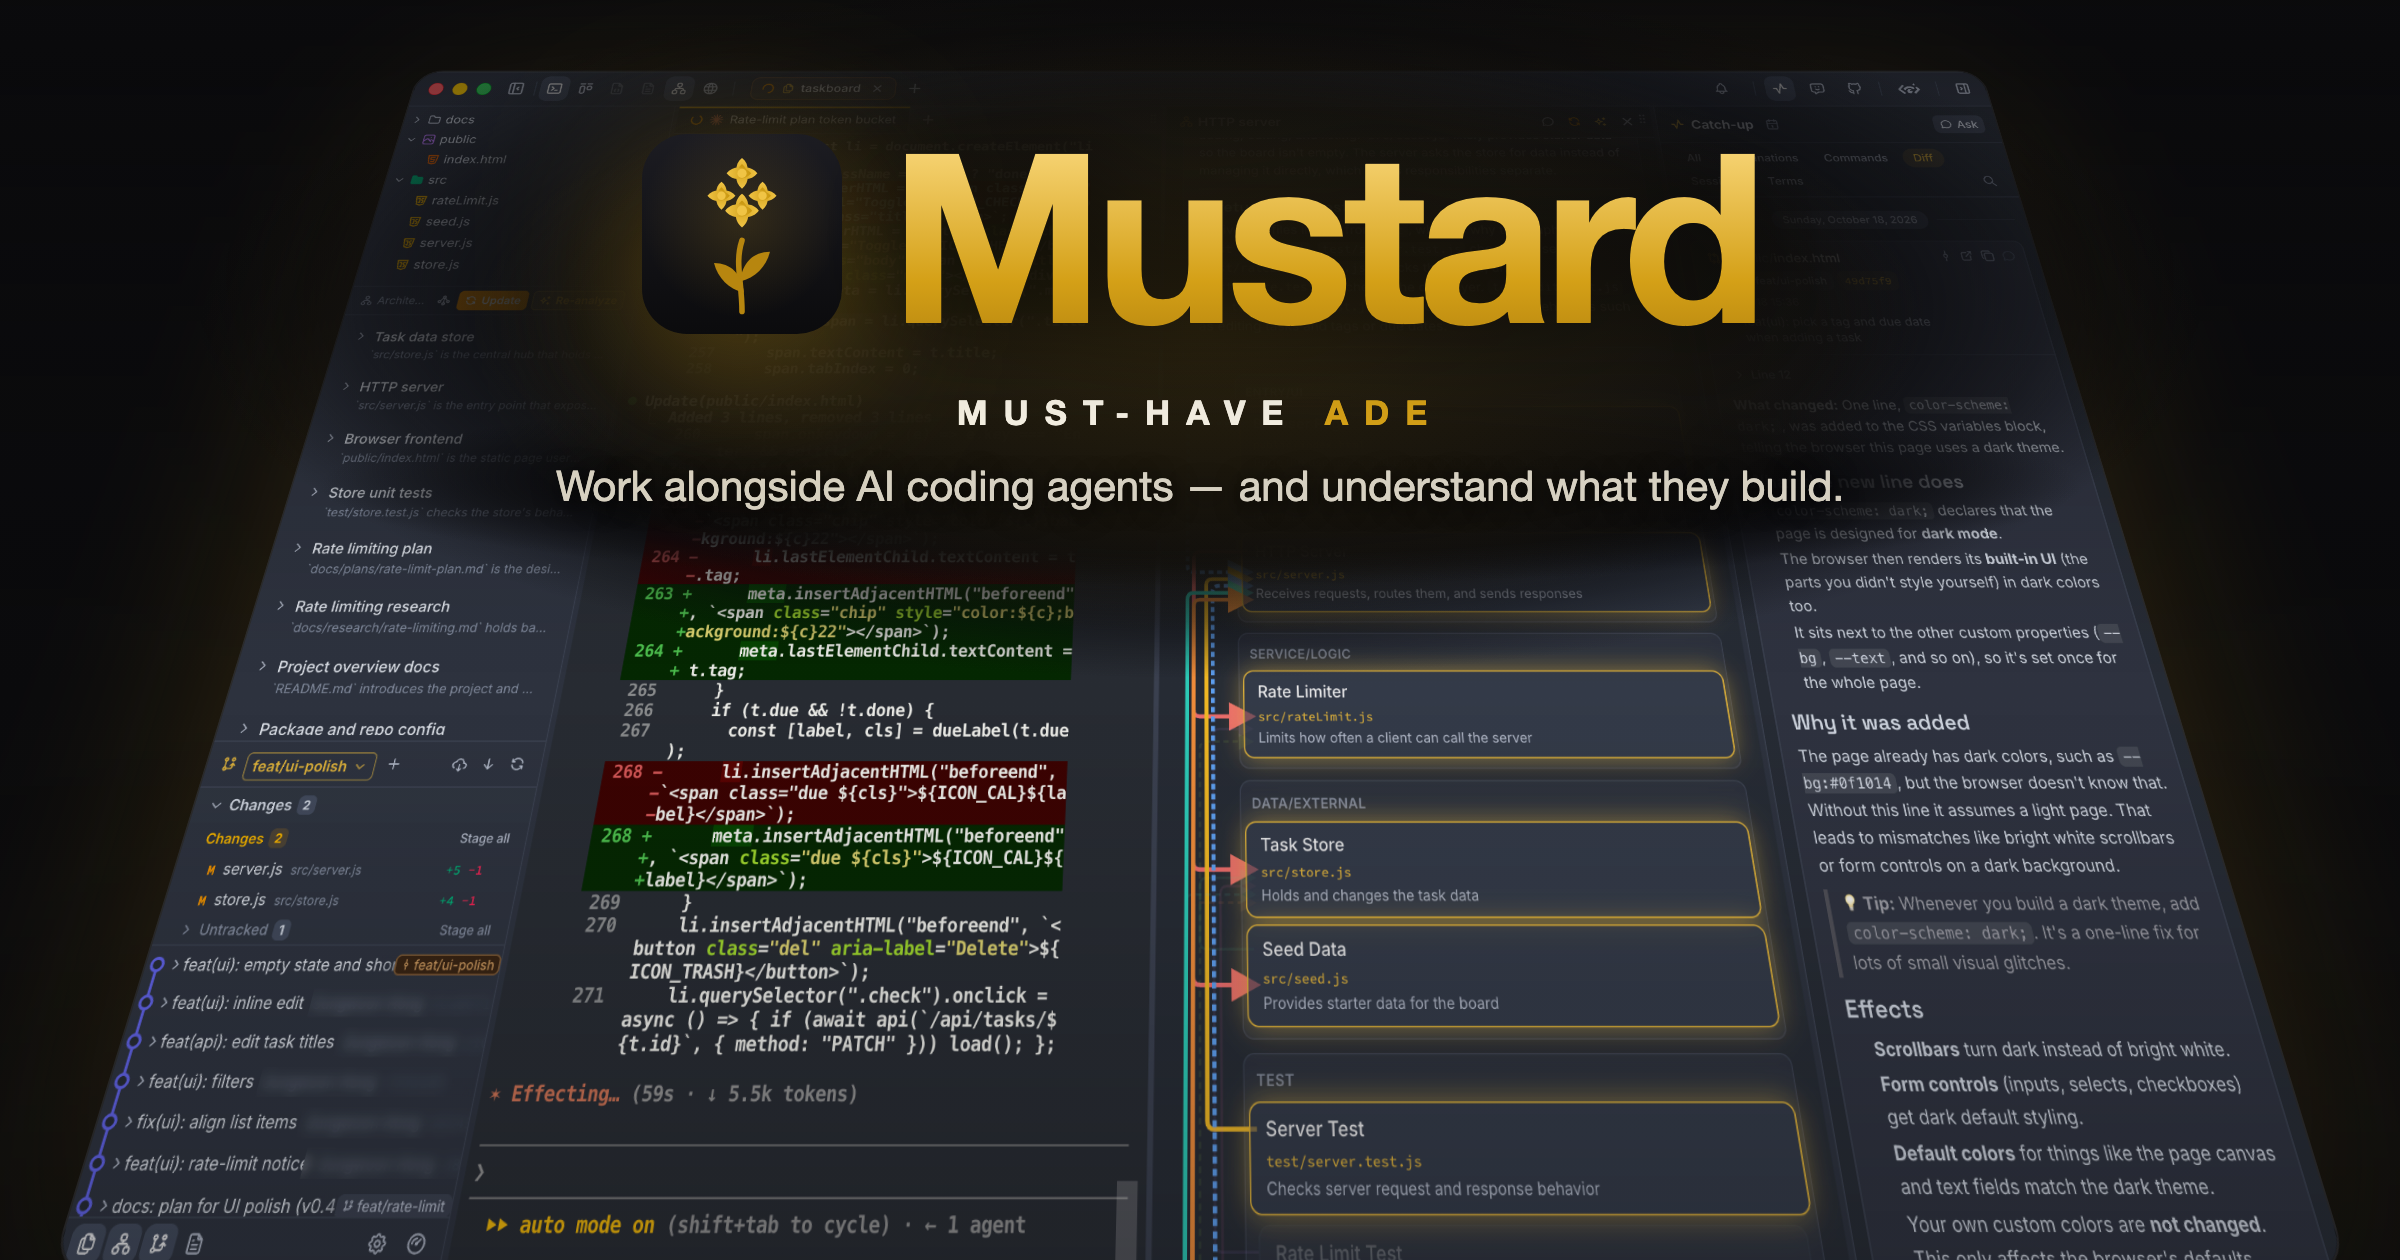
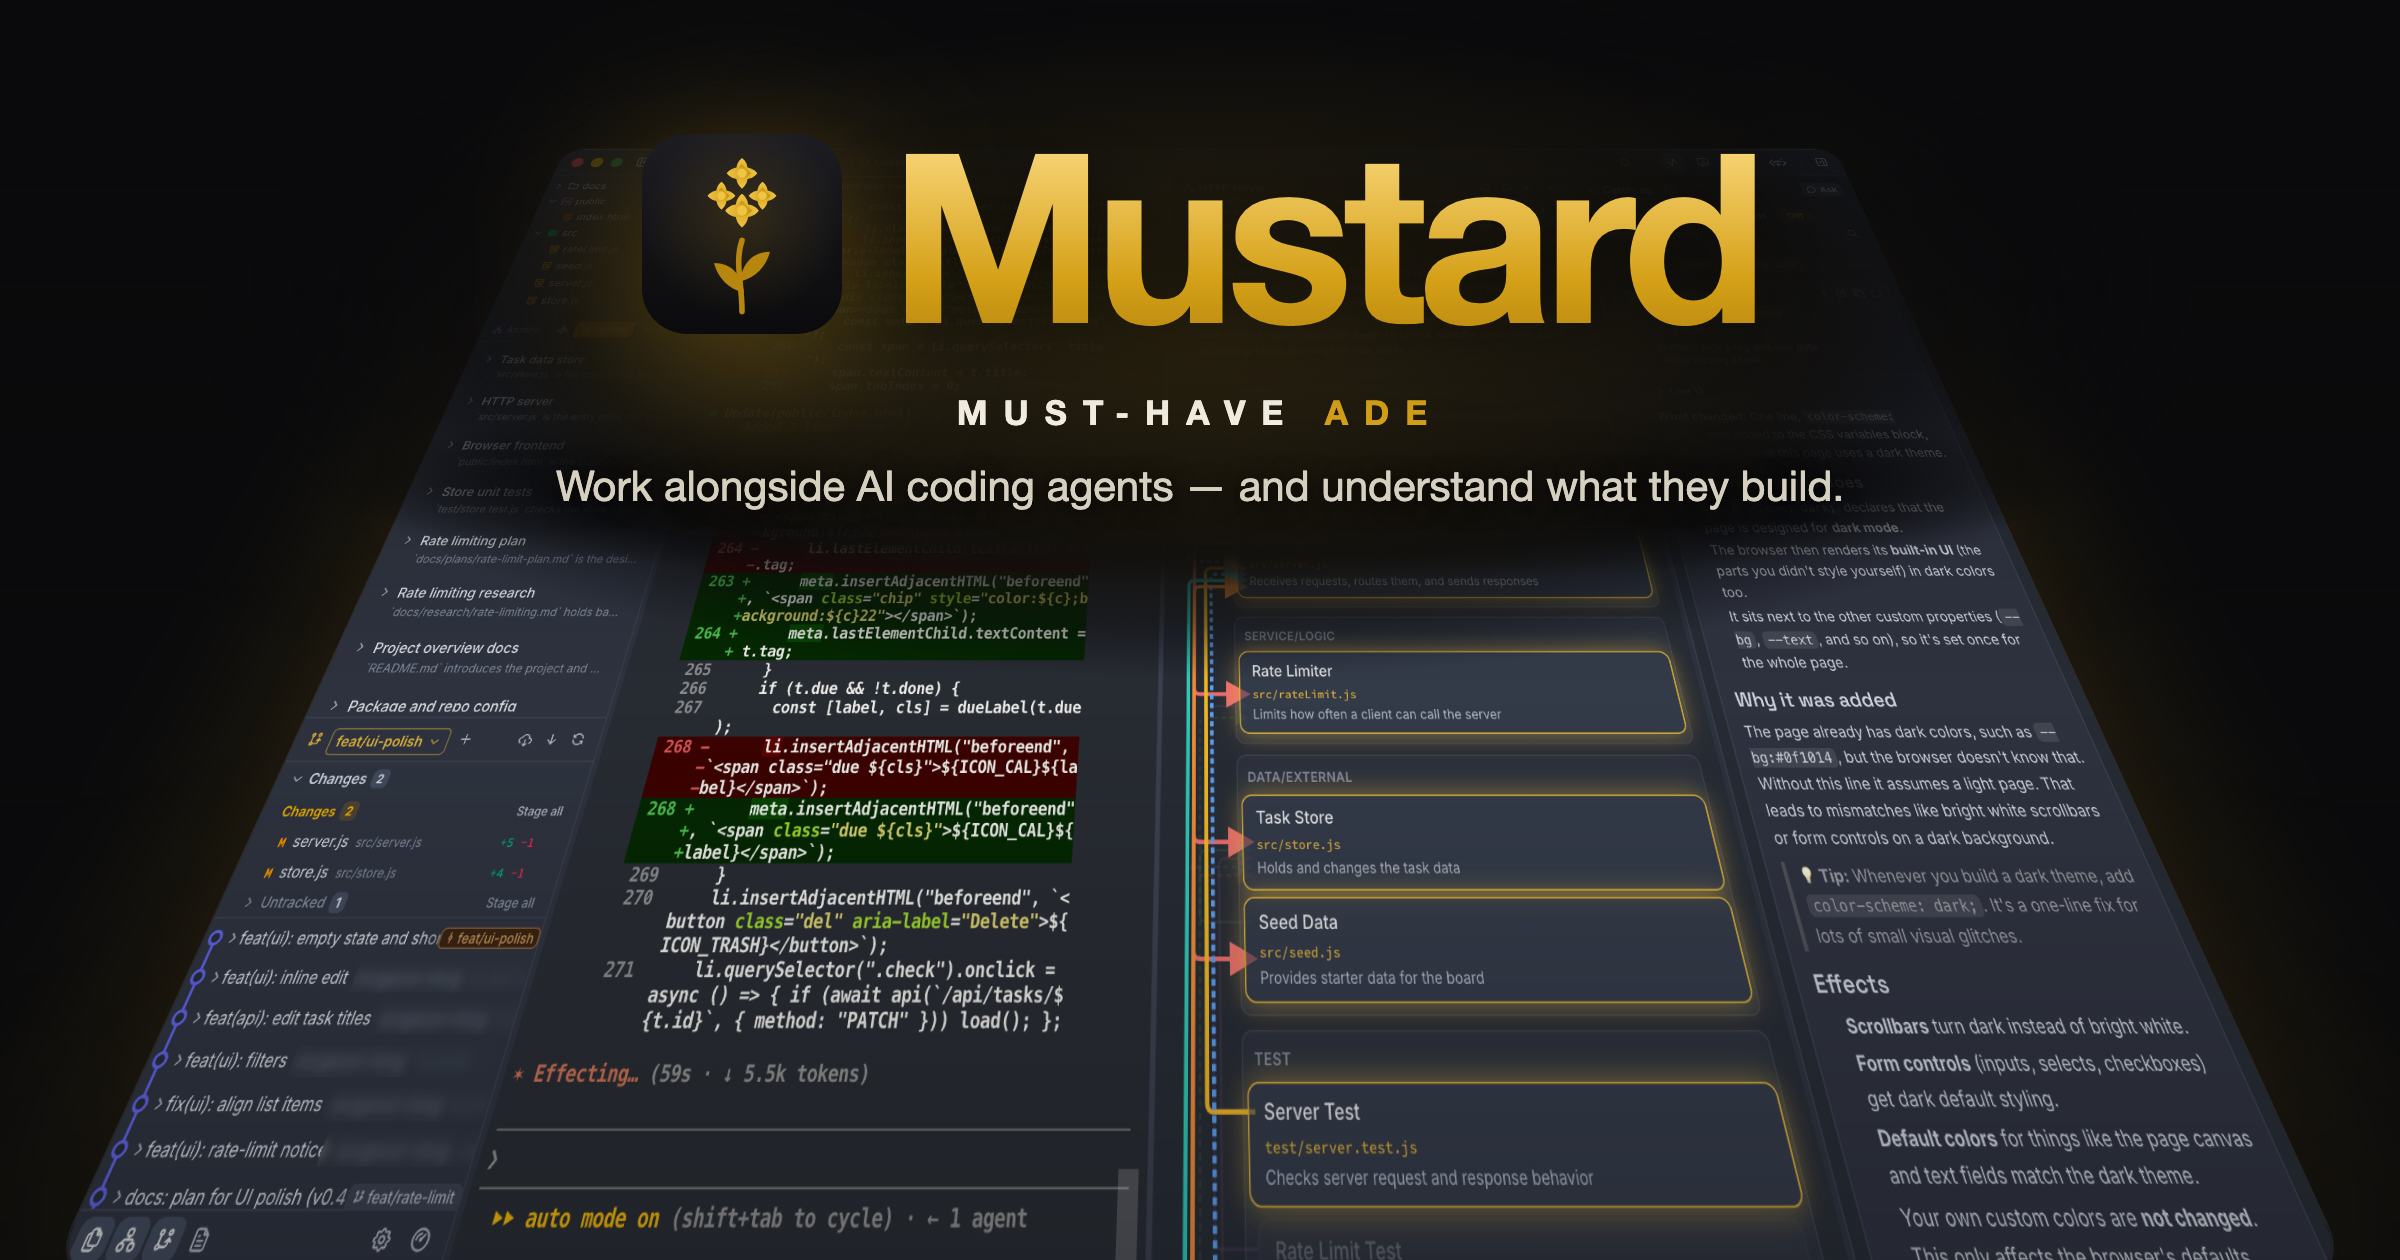
docs: 대표 이미지 — 크롤 기울기 강화 (#1118)

diff --git a/scripts/brand/mustard-hero.html b/scripts/brand/mustard-hero.html
@@ -3,8 +3,8 @@
 *{box-sizing:border-box;margin:0;padding:0}
 html,body{width:1200px;height:630px;overflow:hidden}
 body{font-family:-apple-system,"SF Pro Display","Helvetica Neue",Inter,sans-serif;color:#f4efe2;position:relative;background:#0a0a0c}
-.stage{position:absolute;inset:0;perspective:900px;perspective-origin:50% 0%;overflow:hidden}
-.shot{position:absolute;left:50%;bottom:-6px;width:1150px;height:722px;margin-left:-575px;border-radius:18px;overflow:hidden;transform:rotateX(36deg);transform-origin:50% 100%;opacity:.95;border:1px solid rgba(255,255,255,.14);box-shadow:0 0 140px rgba(212,160,23,.2)}
+.stage{position:absolute;inset:0;perspective:640px;perspective-origin:50% 0%;overflow:hidden}
+.shot{position:absolute;left:50%;bottom:-6px;width:1150px;height:722px;margin-left:-575px;border-radius:18px;overflow:hidden;transform:rotateX(46deg);transform-origin:50% 100%;opacity:.95;border:1px solid rgba(255,255,255,.14);box-shadow:0 0 140px rgba(212,160,23,.2)}
 .shot img{display:block;width:100%;height:100%}
 /* hide the app behind the text; let it show only around it */
 .veil{position:absolute;inset:0;background:
